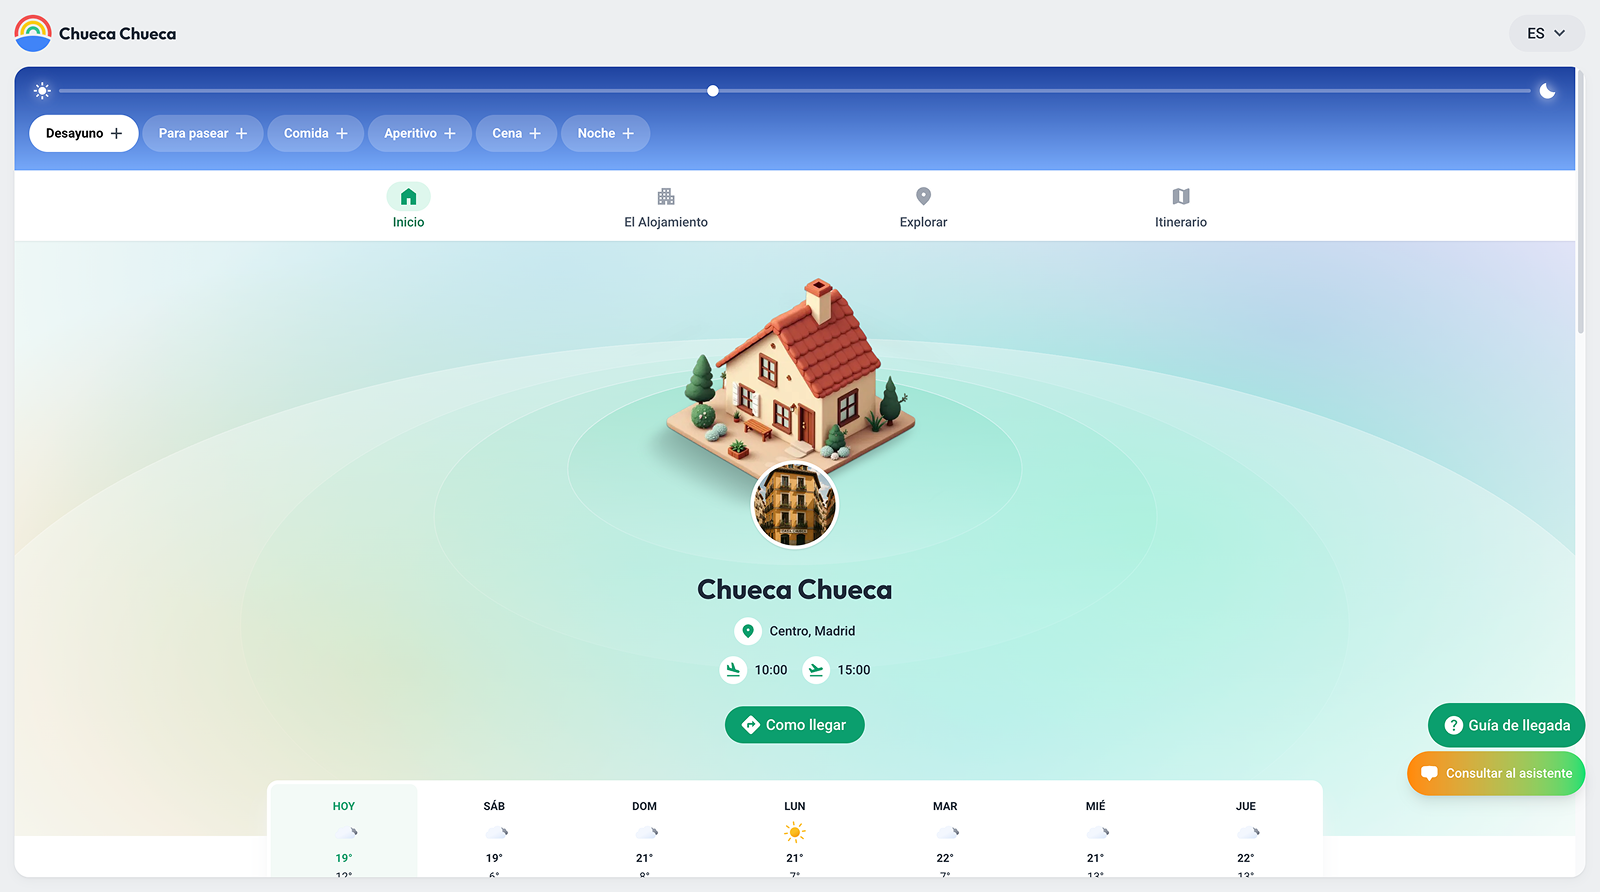
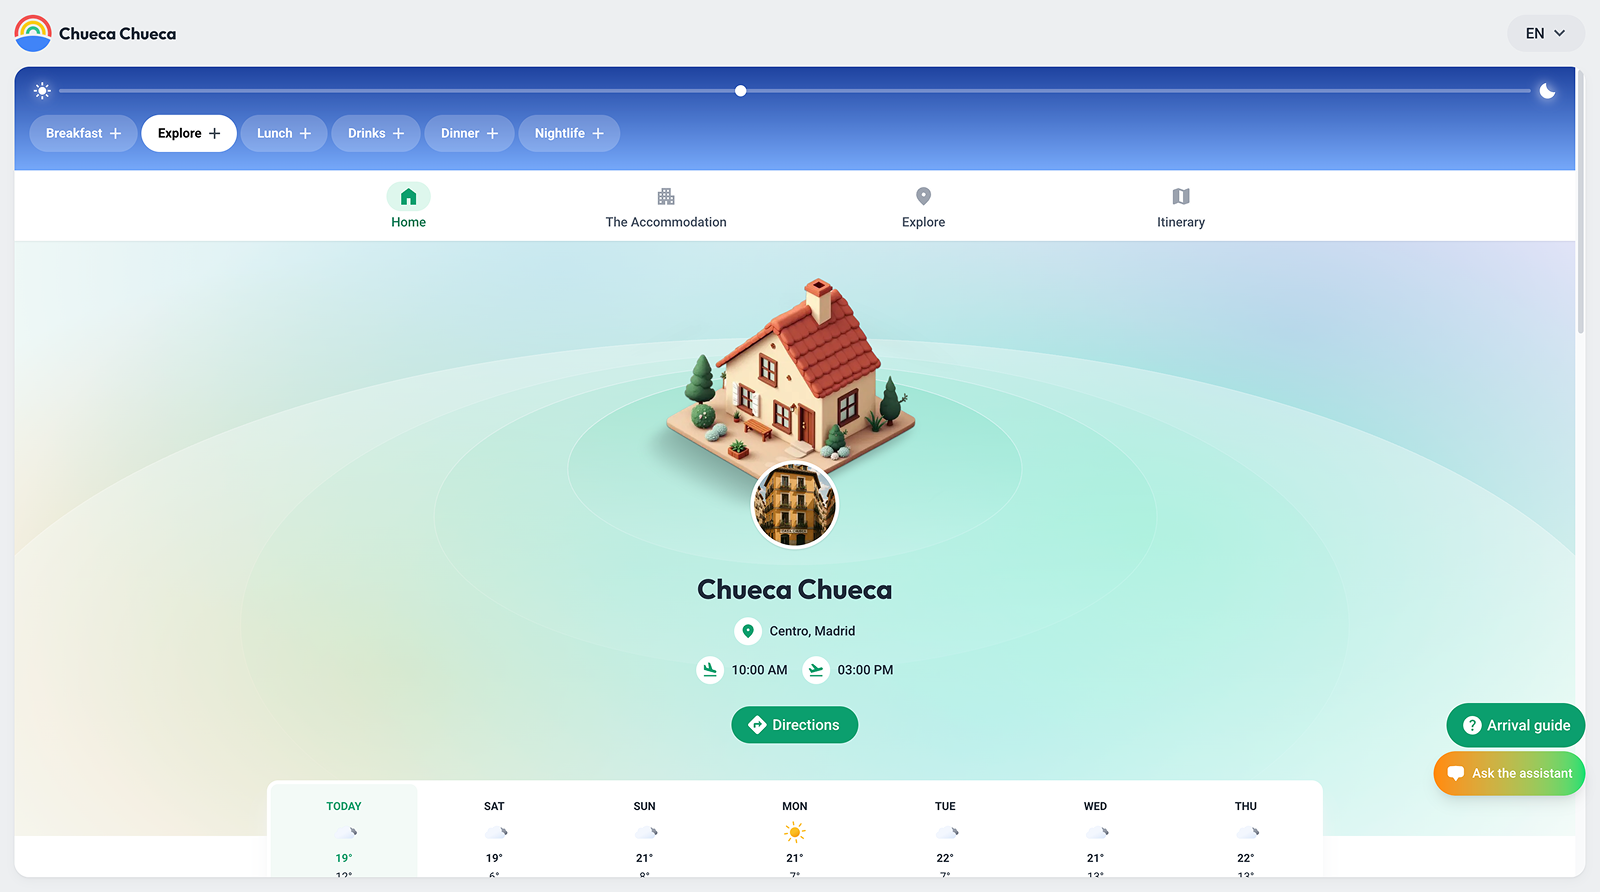
new slide added

diff --git a/src/components/organisms/hero-carousel/hero-slides.ts b/src/components/organisms/hero-carousel/hero-slides.ts
@@ -20,6 +20,10 @@ import hero04Mobile from "../../../../public/static/img/home/hero/ui-04_en_mobil
 import hero05Desktop from "../../../../public/static/img/home/hero/ui-05_en.png";
 import hero05Mobile from "../../../../public/static/img/home/hero/ui-05_en_mobile.png";
 
+// hero-06
+import hero06Desktop from "../../../../public/static/img/home/hero/ui-06_en.png";
+import hero06Mobile from "../../../../public/static/img/home/hero/ui-06_en_mobile.png";
+
 type Translator = (key: string) => string;
 
 export function getHeroSlides(t: Translator): HeroSlide[] {
@@ -53,6 +57,12 @@ export function getHeroSlides(t: Translator): HeroSlide[] {
             images: { desktop: hero05Desktop, mobile: hero05Mobile },
             alt: t("home_page.hero.slide_05_alt"),
             label: t("home_page.hero.slide_05_label"),
+        },
+        {
+            id: "hero-06",
+            images: { desktop: hero06Desktop, mobile: hero06Mobile },
+            alt: t("home_page.hero.slide_06_alt"),
+            label: t("home_page.hero.slide_06_label"),
         },
     ];
 }

diff --git a/src/components/molecules/carousel/carouselPaginationTabs.tsx b/src/components/molecules/carousel/carouselPaginationTabs.tsx
@@ -45,6 +45,7 @@ export function CarouselPaginationTabs({
 
     return (
         <div
+            ref={containerRef}
             role="tablist"
             aria-label="Navegación de secciones de la guía"
             style={{ scrollbarWidth: "none" }}
